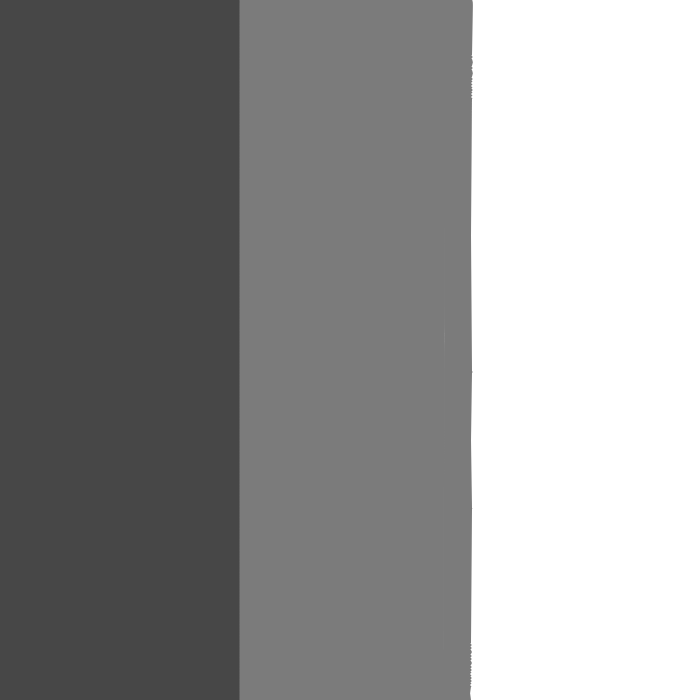
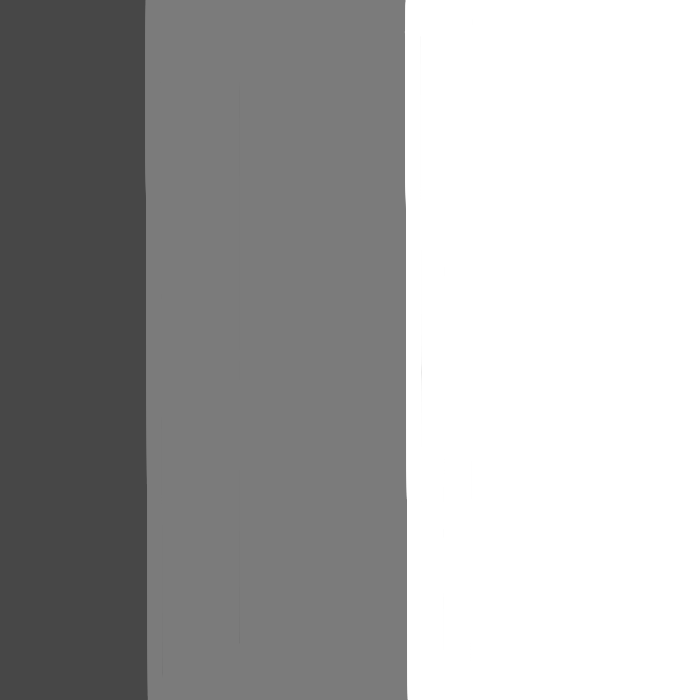
オブジェクトの巻き込み判定をキャラコンでぶつかった判定をした時に変更 距離でやるよりは綺麗になったと思う

Changed region(s): [[0.21, 0.0, 0.36, 1.0], [0.57, 0.0, 0.69, 1.0]]

diff --git a/GameTemplate/kgEngine/bulletPhysics/src/BulletCollision/CollisionDispatch/btCollisionObject.h b/GameTemplate/kgEngine/bulletPhysics/src/BulletCollision/CollisionDispatch/btCollisionObject.h
@@ -48,9 +48,26 @@ typedef btAlignedObjectArray<class btCollisionObject*> btCollisionObjectArray;
 /// They can be added to the btCollisionWorld.
 ATTRIBUTE_ALIGNED16(class)	btCollisionObject
 {
-
+public:
+	float GetSize() const
+	{
+		return m_size;
+	}
+	void SetSize(const float size) const
+	{
+		m_size = size;
+	}
+	bool GetisHit() const
+	{
+		return m_isHit;
+	}
+	void SetisHit() const
+	{
+		m_isHit = true;
+	}
 protected:
-
+	mutable float			m_size = 0.0f;
+	mutable bool			m_isHit = false;
 	btTransform	m_worldTransform;
 
 	///m_interpolationWorldTransform is used for CCD and interpolation

diff --git a/GameTemplate/Game/Player.cpp b/GameTemplate/Game/Player.cpp
@@ -56,7 +56,7 @@ void Player::Update()
 	if (m_gamecamera == nullptr) {
 		m_gamecamera = FindGO<GameCamera>();
 	}
-	Judgment();
+	//Judgment();
 	Move();
 	Turn();
 	m_characon.SetPosition(m_position);
@@ -75,7 +75,7 @@ void Player::Update()
 
 void Player::Judgment()
 {
-	const float LenghtMultiply = 1.15f;
+	const float LenghtMultiply = 1.0f;
 	const float SizeMultiply = 0.9f;
 
 	QueryGOs<Obj>(nullptr, [&](Obj* object) {

diff --git a/GameTemplate/kgEngine/bulletPhysics/src/BulletCollision/CollisionDispatch/btCollisionWorld.h b/GameTemplate/kgEngine/bulletPhysics/src/BulletCollision/CollisionDispatch/btCollisionWorld.h
@@ -327,8 +327,9 @@ public:
 		m_hitPointLocal(hitPointLocal),
 		m_hitFraction(hitFraction)
 		{
+			
 		}
-
+	
 		const btCollisionObject*		m_hitCollisionObject;
 		LocalShapeInfo*			m_localShapeInfo;
 		btVector3				m_hitNormalLocal;

diff --git a/GameTemplate/Game/Object/ObjectData.cpp b/GameTemplate/Game/Object/ObjectData.cpp
@@ -21,7 +21,7 @@ ObjectData::ObjectData()
 			}
 			/*x *= 0.8f;
 			y *= 0.8f;
-			z *= 0.8f;*/
+			z *= 0.9f;*/
 			//volume = (x + x) * (y + y) * (z + z);
 			if (islinesegment == 1) {
 				CVector3 linevector;

diff --git a/GameTemplate/kgEngine/bulletPhysics/src/BulletDynamics/Dynamics/btRigidBody.h b/GameTemplate/kgEngine/bulletPhysics/src/BulletDynamics/Dynamics/btRigidBody.h
@@ -62,6 +62,7 @@ enum	btRigidBodyFlags
 class btRigidBody  : public btCollisionObject
 {
 
+private:
 	btMatrix3x3	m_invInertiaTensorWorld;
 	btVector3		m_linearVelocity;
 	btVector3		m_angularVelocity;
